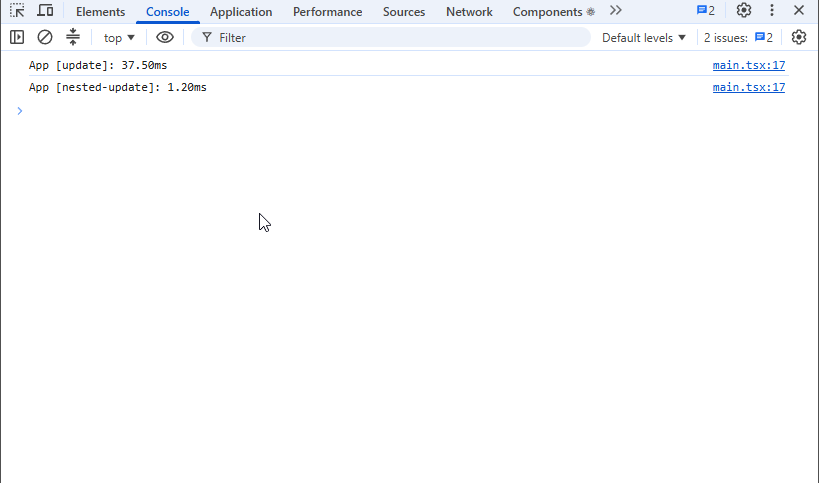
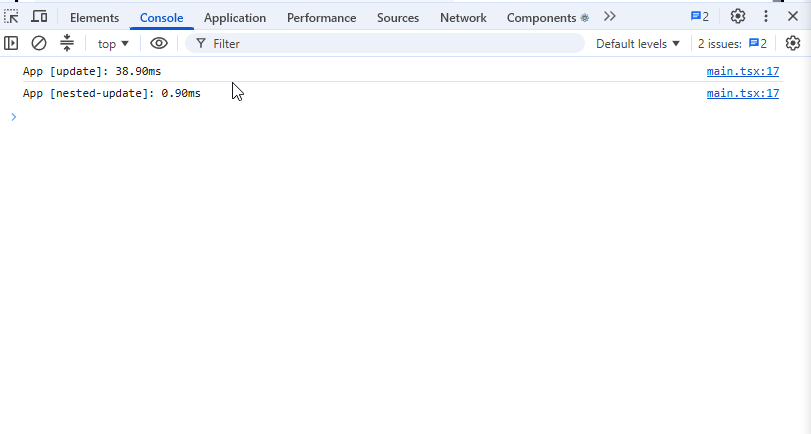
fix: changet data in rerformance.md after added dinamic Row Heigth to List (-15-20% perforance) + dinamic style

Changed region(s): [[0.0, 0.0, 1.0, 0.2396], [0.3083, 0.4493, 0.3391, 0.4793]]

diff --git a/src/components/country-list/country-list.tsx b/src/components/country-list/country-list.tsx
@@ -64,7 +64,8 @@ export const CountryList = memo(
     sortOrder,
   }: CountryListProps) => {
     //используем динаическую высоту строки, т.к. высота скачет
-    // в зависимсоти от выбранных выбросов (чекбоксов)
+    // в зависимсоти от выбранных выбросов (чекбоксов). Визуально лучше
+    // но немного снизило производительность - 20-25% (можно убратьЫ)
     const rowHeight = useDynamicRowHeight({
       defaultRowHeight: 300,
     });

diff --git a/PERFORMANCE.md b/PERFORMANCE.md
@@ -62,8 +62,8 @@
 
 | Interaction      | Baseline (ms) | Optimized (ms) | Improvement |
 | ---------------- | ------------- | -------------- | ----------- |
-| Sort countries   | 1667.8        | 57,50          | 96,55%      |
-| Search countries | 108.8         | 34,50          | 68,29%      |
-| Change year      | 107.3         | 37,50          | 65,05%      |
+| Sort countries   | 1667.8        | 71,50          | 95,52%      |
+| Search countries | 108.8         | 43.30          | 60,20%      |
+| Change year      | 107.3         | 38.90          | 63,75%      |
 | Toggle column    | 114.1         | 24,90          | 78,18%      |
-| **Average**      | **499.5**     | **38,60**      | **77,02%**  |
+| **Average**      | **499.5**     | **45,45**      | **74,41%**  |
